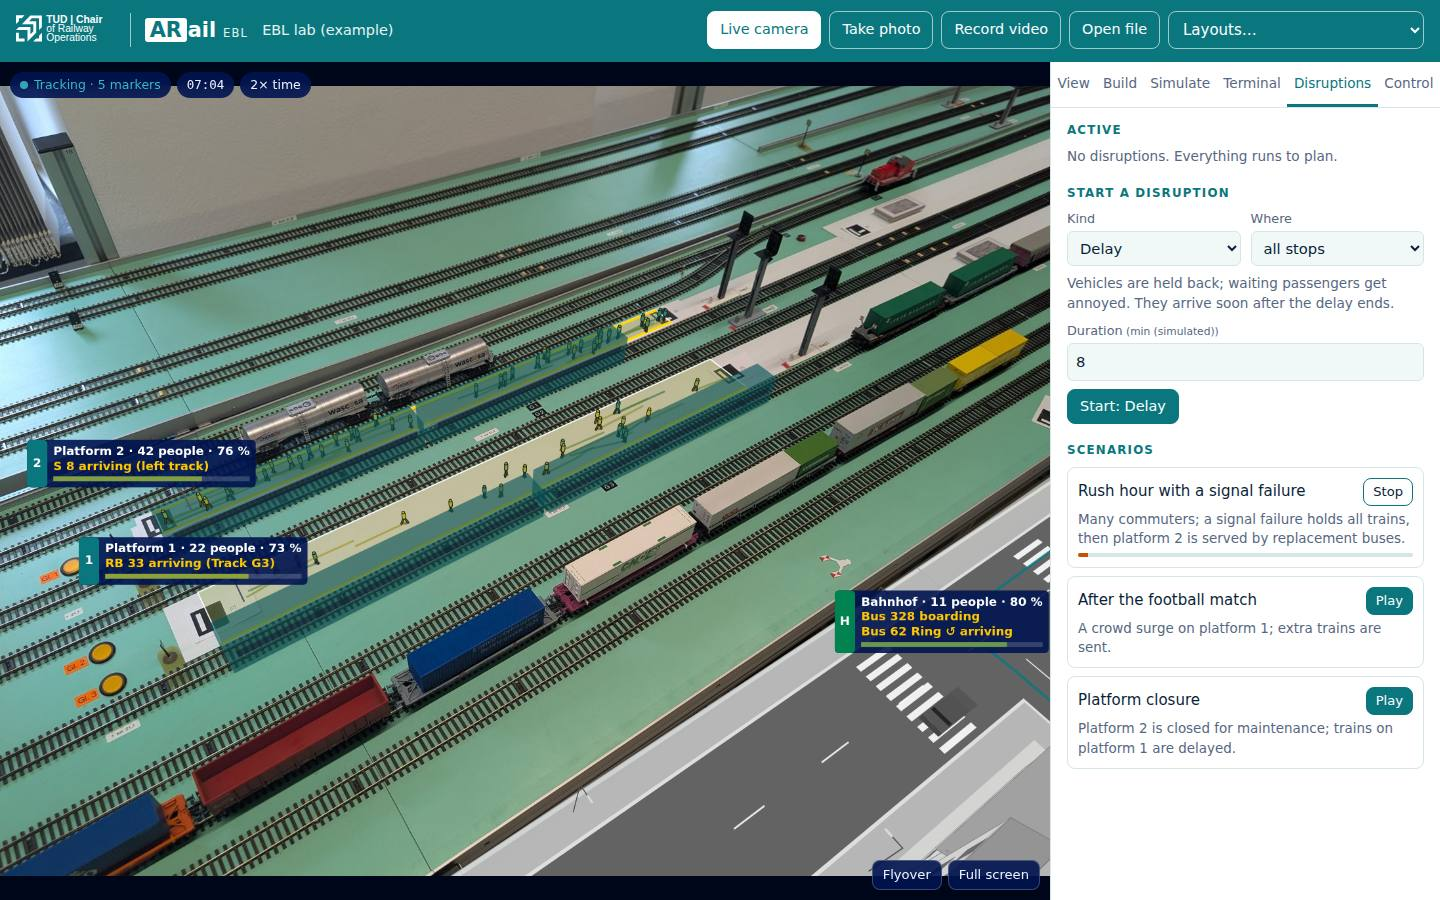
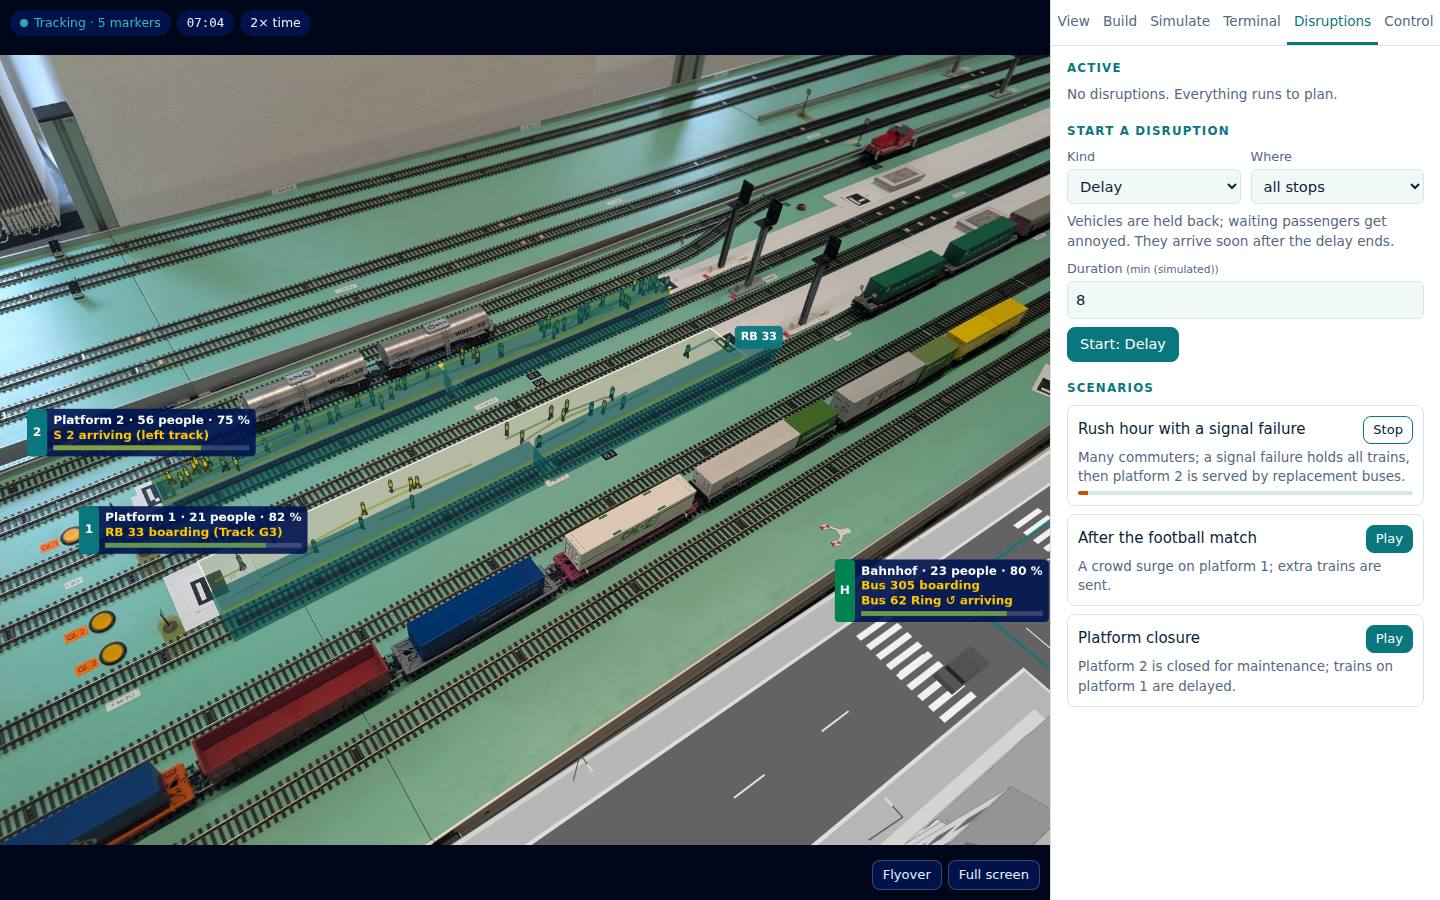
Project page: contact by email; app screenshots without the app bar
Get in touch now writes to joern.maurischat@tu-dresden.de, also named in
the cooperation band and the footer. The screenshots of the applications
are cropped below the app's bar, so the page shows one header only.

Claude-Session: https://claude.ai/code/session_01423s12ePpQS1M6nZ8Fxagi

diff --git a/web/index.html b/web/index.html
@@ -176,6 +176,8 @@ details.dev .dev-body p { color: var(--text-2); font-size: .95rem; }
 .coop h2 { font-size: clamp(1.5rem, 3vw, 2rem); }
 .coop p { color: var(--board-muted); max-width: 62ch; margin-top: 8px; }
 .coop .ctas { margin-top: 0; }
+.coop .contact { color: var(--board-text); font-size: .95rem; }
+.coop .contact a { color: inherit; font-weight: 700; }
 .coop .btn.primary { background: #ffffff; border-color: #ffffff; color: #001450; }
 .coop .btn.ghost { background: transparent; color: var(--board-text); border-color: var(--board-line); }
 .coop :focus-visible { outline-color: #ffffff; }
@@ -464,9 +466,10 @@ footer a { color: inherit; }
         <div>
           <h2 id="coop-title">Open for cooperation</h2>
           <p>Railway labs, universities, model railway clubs and industry: bring your layout, your control system or your course. ARail-EBL is open source under the MIT license.</p>
+          <p class="contact">Contact: Jörn Maurischat, <a href="mailto:joern.maurischat@tu-dresden.de">joern.maurischat@tu-dresden.de</a></p>
         </div>
         <div class="ctas">
-          <a class="btn primary big" href="https://github.com/joernmht/ARail-EBL/issues">Get in touch</a>
+          <a class="btn primary big" href="mailto:joern.maurischat@tu-dresden.de?subject=ARail-EBL%20cooperation">Get in touch</a>
           <a class="btn ghost big" href="https://github.com/joernmht/ARail-EBL">Source on GitHub</a>
         </div>
       </div>
@@ -478,6 +481,7 @@ footer a { color: inherit; }
   <div class="wrap">
     <p>ARail-EBL is open source under the MIT license. Marker detection uses <a href="https://github.com/damianofalcioni/js-aruco2">js-aruco2</a>; the tools use <a href="https://opencv.org">OpenCV</a>.</p>
     <p>The site and the app follow the corporate design of the Chair of Railway Operations at TU Dresden. The chair's logo is © TU Dresden and not covered by the MIT license (<a href="https://github.com/joernmht/ARail-EBL/blob/main/THIRD_PARTY_NOTICES.md">third-party notices</a>).</p>
+    <p>Contact: <a href="mailto:joern.maurischat@tu-dresden.de">joern.maurischat@tu-dresden.de</a></p>
     <p><a href="https://github.com/joernmht/ARail-EBL/issues">Report a problem or suggest an idea</a> · <a href="https://github.com/joernmht/ARail-EBL/blob/main/CONTRIBUTING.md">Contributing</a> · <a href="https://github.com/joernmht/ARail-EBL/tree/main/docs">Documentation</a></p>
   </div>
 </footer>

diff --git a/tests/e2e/site.spec.js b/tests/e2e/site.spec.js
@@ -31,6 +31,8 @@ test("project page hands over from the picture to the applications, each opening
     const layout = new URL(href, "http://x/app/").searchParams.get("layout");
     expect((await request.get(new URL(layout, "http://localhost/app/").pathname)).ok(), layout).toBe(true);
   }
+  // cooperation: the contact person by email
+  await expect(page.getByRole("link", { name: "Get in touch" })).toHaveAttribute("href", /^mailto:joern\.maurischat@tu-dresden\.de/);
   const images = await page.locator(".app-card img").evaluateAll((imgs) => imgs.map((i) => i.getAttribute("src")));
   for (const src of images) expect((await request.get(`/${src}`)).ok(), src).toBe(true);
 });
